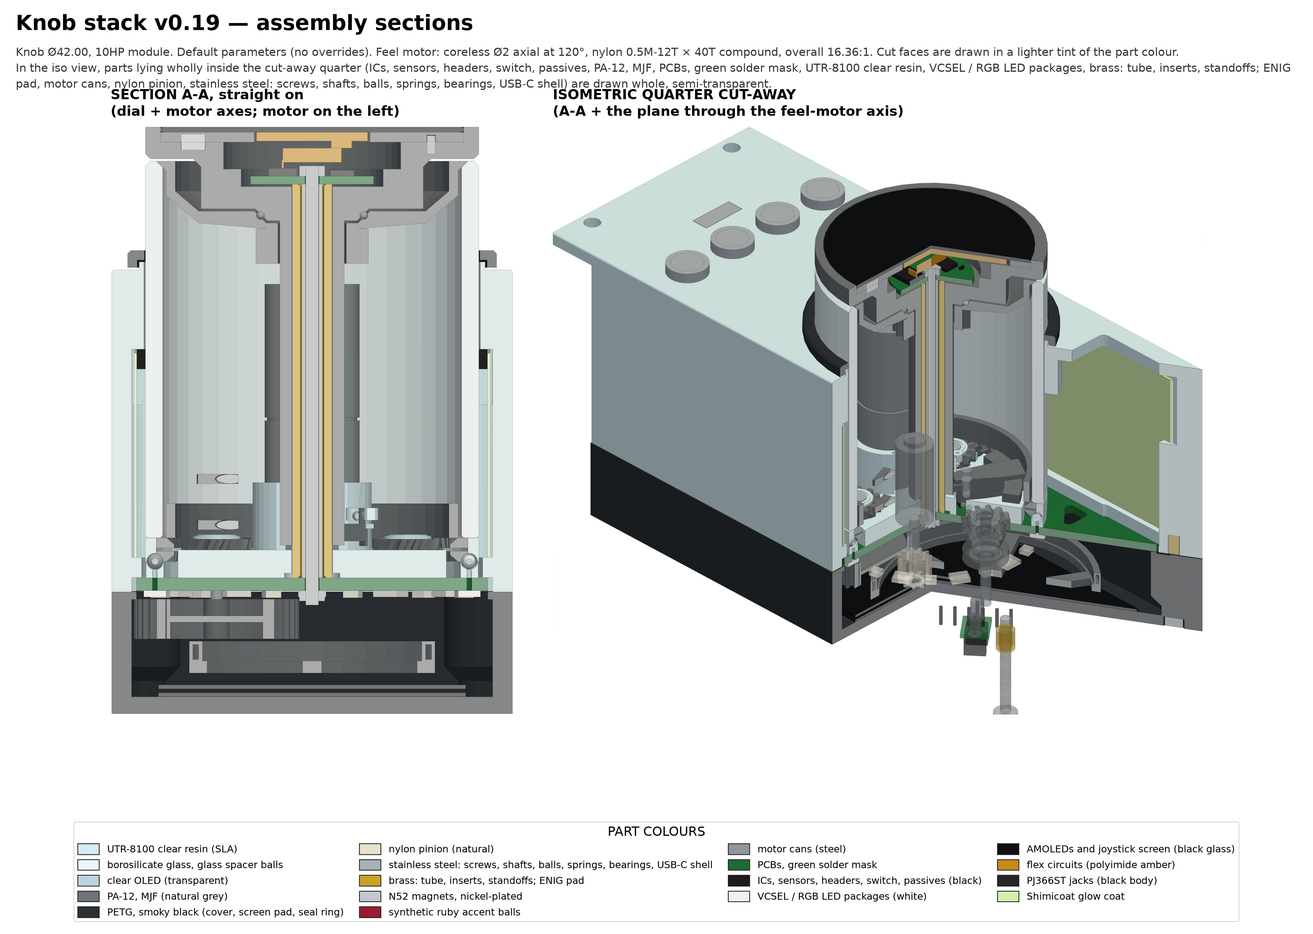
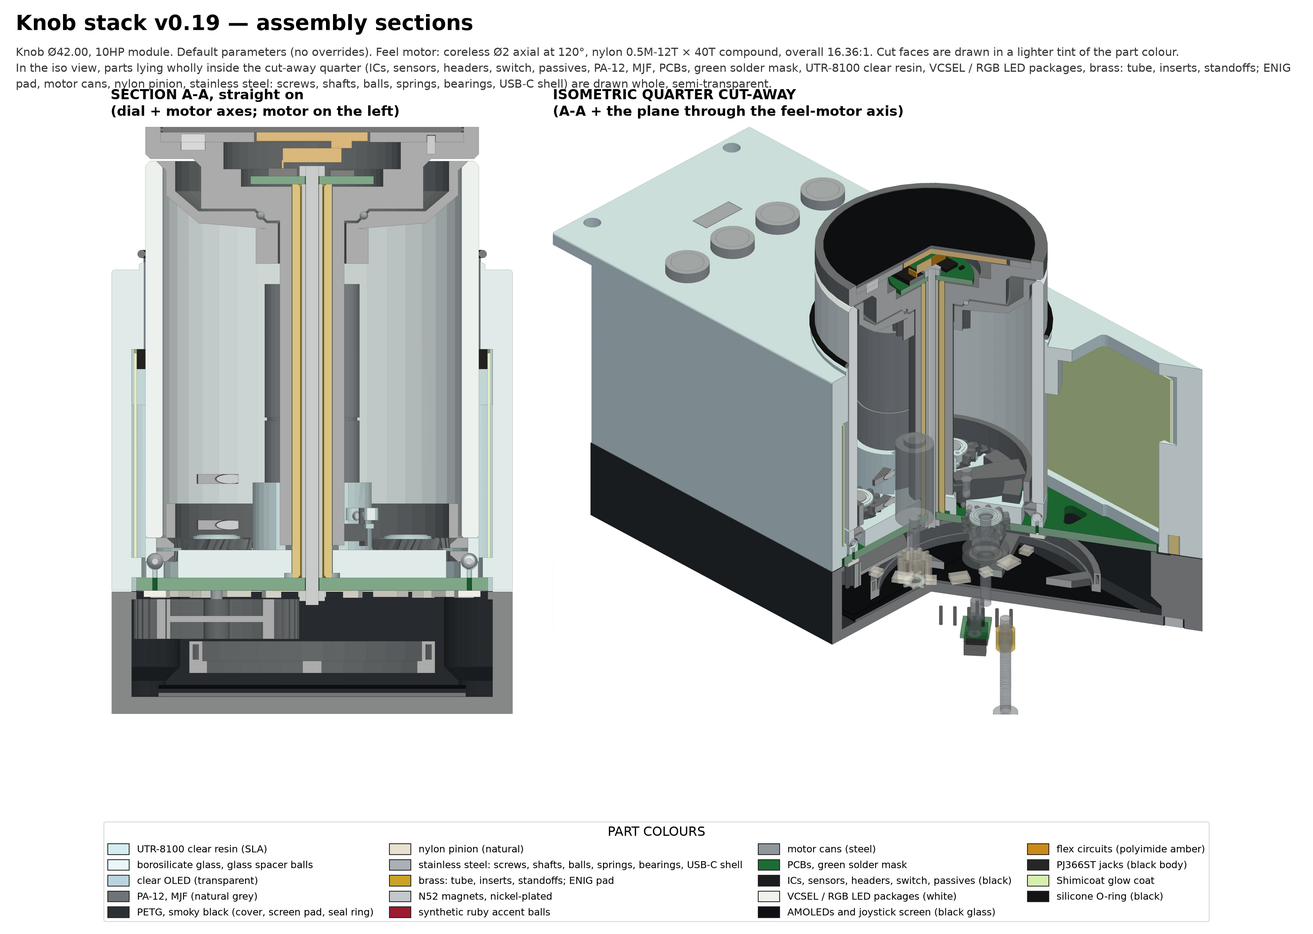
v0.19b: silicone drip O-ring on the glass + sloped faceplate ring (replaces the PETG skirt); back screens spread 4 mm each way (overlap 13.6, rule >= 11 [Ed]); window D back to 38.4 x 24; helper scripts in cad/knob-param/tools; handover doc
175/175 checks pass; one clash left: joystick carrier vs the case top wall (rail strip, see docs/handover-2026-11-02.md).

Claude-Session: https://claude.ai/code/session_01WWsCMB1ZDabhaLUNCmzi3x

diff --git a/cad/knob-param/tools/pcb_windows.py b/cad/knob-param/tools/pcb_windows.py
@@ -1,0 +1,66 @@
+# Run from cad/knob-param:  PYTHONPATH=. python tools/pcb_windows.py out.json   (then paste the polygons into electronics pcb_windows)
+"""PCB see-through windows A, B, C, E (+ D under the clear OLED), panel frame, from the 2 Nov zone sketch rules:
+free = (screen behind) ∩ (board inside a rail) − (mechanism keep-out) − (joystick) − (corner posts) − (other board features)."""
+import math, json, sys
+from shapely.geometry import box, Point, Polygon
+from shapely.ops import unary_union
+from knobparam.common import model
+D = model.derive(model.default_params())
+M = 1.0     # board left round every obstacle
+RAIL = 1.5  # board kept inside the outline
+x0, x1, y0, y1 = -D["pcb_x1"], D["pcb_x1"], D["pcb_y0"], D["pcb_y1"]
+print("pcb", x0, x1, y0, y1, "r_out", D["r_out"], "corners", D["corners"], "notch_r", D["notch_r"])
+print("amo_lower", D["amo_lower"], "amo_upper", D["amo_upper"])
+board = box(x0 + RAIL, y0 + RAIL, x1 - RAIL, y1 - RAIL)
+lower, upper = box(*[D["amo_lower"][i] for i in (0, 2, 1, 3)]), box(*[D["amo_upper"][i] for i in (0, 2, 1, 3)])
+r_keep = max(D["r_out"], D["ot_r"] + D["ot_rg"] + D["ot_track_extra"], D["ot_r"] + 1.75, D["knob_od"] / 2) + 2.5   # knob + cradle + emitter bodies, + the case knob ring
+print("r_keep", r_keep)
+obst = [Point(0, 0).buffer(r_keep, 128)]
+py = 36.52   # joystick axis (cad/joystick-param place_y); carrier and screen carrier are opaque, so nothing to see under them
+obst.append(box(-22.01, py - 14.57, 22.01, py + 14.57).buffer(M))
+for x, y in D["corners"]:
+    obst.append(Point(x, y).buffer(D["notch_r"] + D.get("tube_press", 1.0) + 1.0 + M))
+K = D["pcb_kicad"]
+for p in K.get("back_parts", []):
+    if math.hypot(p["x"], p["y"]) > 23 and p["ref"] == "J10":
+        obst.append(box(p["x"] - p["w"] / 2, p["y"] - p["l"] / 2, p["x"] + p["w"] / 2, p["y"] + p["l"] / 2).buffer(M))
+ex, ey = D["enc_xy"]; a = math.radians(D["mech_rot"]); pex, pey = math.cos(a) * ex - math.sin(a) * ey, math.sin(a) * ex + math.cos(a) * ey
+obst.append(Point(pex, pey).buffer(D["brg"]["D"] / 2 + D["brg2_seat_wall"] + M))
+# v0.19b: encoder daughterboard + header under the PCB (their pins land on the main PCB): keep board round them
+from knobparam.under_pcb.parts import encoder
+from build123d import Rot
+from shapely.geometry import MultiPoint
+_ps = encoder.build(model.view(D, "under_pcb"))
+for _n in ("encoder header", "encoder daughterboard", "encoder standoff"):
+    if _n in _ps:
+        _s = Rot(0, 0, D["mech_rot"]) * _ps[_n]
+        _pts = [(v.X, v.Y) for v in _s.vertices()]
+        obst.append(MultiPoint(_pts).convex_hull.buffer(1.5)); print("obstacle", _n, [round(v, 1) for v in obst[-1].bounds])
+blk = unary_union(obst)
+Z = {}
+Z["A"] = (upper & board).difference(blk) & box(-50, 0, 0, 80)
+Z["B"] = (upper & board).difference(blk) & box(0, 0, 50, 80)
+Z["E"] = (lower & board).difference(blk) & box(-50, -21.8, 0, 0)
+Z["C"] = (lower & board).difference(blk) & box(0, -21.8, 50, 0)
+cut = box(-19.2, -48.6, 19.2, -24.6)   # clear OLED cut-away 38.4 x 24 (sketch, +4 mm into this frame)
+Z["D"] = (cut & board & lower).difference(blk)
+out = {}
+for k in "ABCDE":
+    g = Z[k]
+    gs = [g] if g.geom_type == "Polygon" else [p for p in getattr(g, "geoms", []) if p.geom_type == "Polygon"]
+    gs = [p for p in gs if p.area > 4.0]
+    if not gs:
+        print(k, "empty"); continue
+    p = max(gs, key=lambda q: q.area)
+    # open slightly to drop slivers narrower than 2 mm, then simplify
+    q = p.buffer(-1.0).buffer(1.0, join_style=1)
+    q = q.simplify(0.05)
+    if q.is_empty or q.area < 4.0:
+        print(k, "too thin"); continue
+    if q.geom_type != "Polygon":
+        q = max(q.geoms, key=lambda r: r.area)
+    pts = [(round(x, 2), round(y, 2)) for x, y in q.exterior.coords[:-1]]
+    mnx, mny, mxx, mxy = q.bounds
+    print(f"{k}: area {q.area:.1f} mm²  x {mnx:.1f}..{mxx:.1f}  y {mny:.1f}..{mxy:.1f}  ({len(pts)} pts)")
+    out[k] = pts
+json.dump(out, open(sys.argv[1] if len(sys.argv) > 1 else "/dev/stdout", "w"))

diff --git a/cad/knob-param/tools/drv_spot.py b/cad/knob-param/tools/drv_spot.py
@@ -1,0 +1,60 @@
+# Run from cad/knob-param:  PYTHONPATH=. python tools/drv_spot.py
+"""Free spot for the 716 driver cluster (U20 + C20-C22) on the PCB back, inside the emitter ring, mechanism frame."""
+import math, sys
+from shapely.geometry import box, Point
+from shapely.affinity import rotate
+from shapely.ops import unary_union
+from knobparam.common import model
+D = model.derive(model.default_params())
+F = D["feel"]; K = D["pcb_kicad"]
+def rect(x, y, w, l, a=0):
+    return rotate(box(x - w/2, y - l/2, x + w/2, y + l/2), a, origin=(x, y))
+obs = []
+R = D["ot_r"]
+for i in range(24):
+    obs.append(("em", rotate(box(R - 1.4, -1.75, R + 1.4, 1.75), i * 15.0 + 7.5 * (len(sys.argv) > 1), origin=(0, 0))))
+for r, a in zip(D["hv_r"], D["hv_phi_s"]):
+    obs.append(("hallC", rect(r*math.cos(math.radians(a)), r*math.sin(math.radians(a)), 1.1, 0.6, a)))
+pw, pl = F["pad"]
+for px, py in D["fm_pad_xy"]:
+    obs.append(("fmpad", rect(px, py, pl, pw, D["fm_ang"] + 90)))
+obs.append(("fmshaft", Point(*D["fm_xy"]).buffer(D["fm_shaft_hole"]/2 + 0.3)))
+obs.append(("fghole", Point(*D["fg_xy"]).buffer(D["fg_hole"]/2 + 0.3)))
+obs.append(("fg gear plan", Point(*D["fg_xy"]).buffer(D["fg_tip"] + 0.3)))
+ex, ey = D["enc_xy"]; obs.append(("brg2seat", Point(ex, ey).buffer(D["brg"]["D"]/2 + D["brg2_seat_wall"] + 0.2)))
+obs.append(("rodpad", Point(0, 0).buffer(D["rod_pad_r"] + 0.3)))
+M = D["motor"]
+for s in (-1, 1):
+    obs.append(("tab", rect(D["offset"] + s*M["term_pitch"]/2, 0, M["term_t"] + 0.6, M["term_w"] + 0.6)))
+for h in K.get("holes", []):
+    if math.hypot(h["x"], h["y"]) < 23: obs.append(("khole", Point(h["x"], h["y"]).buffer(h["d"]/2 + 0.3)))
+for p in K.get("back_parts", []):
+    if p["ref"] in ("U20", "C20", "C21", "C22") or (p["ref"].startswith("C1") and len(p["ref"]) == 3): continue
+    if math.hypot(p["x"], p["y"]) < 23: obs.append(("kpart " + p["ref"], rect(p["x"], p["y"], p["w"], p["l"])))
+for x, y in D.get("peg_xy", []) or []:
+    obs.append(("peg", Point(x, y).buffer(D["peg_d"]/2 + 0.3)))
+print("obstacles:", sorted(set(n for n, _ in obs)), "pad", F["pad"], "pegs", D.get("peg_xy"))
+CL = [("U20", 0, 0, 2.95, 2.55), ("C20", 0, 2.2, 1.91, 0.99), ("C21", -2.9, 1.0, 0.99, 1.91), ("C22", -4.7, 1.0, 1.55, 3.05)]
+def cluster(x, y, rot):
+    out = []
+    c, s = math.cos(math.radians(rot)), math.sin(math.radians(rot))
+    for ref, dx, dy, w, l in CL:
+        cx, cy = x + c*dx - s*dy, y + s*dx + c*dy
+        out.append((ref, rotate(box(cx - w/2, cy - l/2, cx + w/2, cy + l/2), rot, origin=(cx, cy))))
+    return out
+pads = D["fm_pad_xy"]; pc = ((pads[0][0]+pads[1][0])/2, (pads[0][1]+pads[1][1])/2)
+best = []
+for rot in range(0, 360, 15):
+    for xi in range(-170, 171, 5):
+        for yi in range(-170, 171, 5):
+            x, y = xi/10, yi/10
+            u = unary_union([g for _, g in cluster(x, y, rot)])
+            gs = [u] if u.geom_type == "Polygon" else list(u.geoms)
+            rmax = max(math.hypot(px, py) for g in gs for px, py in g.exterior.coords)
+            if rmax > 17.6: continue
+            dmin = min(u.distance(g) for _, g in obs)
+            if dmin < 0.6: continue
+            best.append((math.hypot(x - pc[0], y - pc[1]), x, y, rot, rmax, dmin))
+best.sort()
+for b in best[:10]: print("trace %.2f at (%.1f, %.1f) rot %d  rmax %.2f  clear %.2f" % b)
+print("pads centre (%.2f, %.2f), old U20 (-10.25, 12.96) r 16.5" % pc)

diff --git a/cad/knob-param/knobparam/electronics/params.py b/cad/knob-param/knobparam/electronics/params.py
@@ -26,7 +26,7 @@ P = dict(
         "A": [(-17.63, 16.38), (-18.04, 16.11), (-18.53, 16.07), (-18.98, 16.28), (-19.28, 16.67), (-19.36, 17.06), (-19.36, 19.95), (-19.19, 20.51), (-18.83, 20.83), (-18.46, 20.95), (-15.17, 20.95), (-14.61, 20.78), (-14.33, 20.49), (-14.18, 20.12), (-14.19, 19.73), (-14.36, 19.37), (-16.16, 17.83)],
         "B": [(14.57, 19.15), (14.22, 19.63), (14.18, 20.12), (14.39, 20.57), (14.78, 20.87), (15.17, 20.95), (18.36, 20.95), (18.83, 20.83), (19.19, 20.51), (19.36, 20.05), (19.36, 17.06), (19.24, 16.58), (18.99, 16.28), (18.63, 16.1), (18.24, 16.07), (17.87, 16.19), (16.16, 17.83)],
         "C": [(13.98, -21.8), (13.43, -21.63), (13.06, -21.19), (13.0, -20.61), (13.27, -20.1), (15.71, -18.22), (17.78, -16.25), (18.14, -16.08), (18.44, -16.06), (18.73, -16.13), (19.06, -16.34), (19.28, -16.67), (19.36, -17.06), (19.36, -20.9), (19.24, -21.27), (19.07, -21.51), (18.74, -21.72), (18.46, -21.8)],
-        "D": [(18.2, -24.6), (18.58, -24.68), (18.91, -24.89), (19.12, -25.22), (19.2, -25.6), (19.2, -47.1), (19.08, -47.57), (18.76, -47.93), (18.2, -48.1), (-18.2, -48.1), (-18.67, -47.98), (-19.03, -47.66), (-19.2, -47.1), (-19.2, -25.6), (-19.08, -25.13), (-18.76, -24.77), (-18.2, -24.6)],
+        "D": [(18.2, -24.6), (18.58, -24.68), (18.91, -24.89), (19.12, -25.22), (19.2, -25.6), (19.2, -47.6), (19.08, -48.07), (18.76, -48.43), (18.2, -48.6), (-18.2, -48.6), (-18.67, -48.48), (-19.03, -48.16), (-19.2, -47.6), (-19.2, -25.6), (-19.08, -25.13), (-18.76, -24.77), (-18.2, -24.6)],
         "E": [(-19.36, -17.06), (-19.19, -16.5), (-18.82, -16.17), (-18.24, -16.07), (-17.78, -16.25), (-15.71, -18.22), (-13.27, -20.1), (-13.1, -20.33), (-12.99, -20.71), (-13.0, -21.0), (-13.15, -21.36), (-13.51, -21.68), (-13.98, -21.8), (-18.36, -21.8), (-18.92, -21.63), (-19.24, -21.27), (-19.36, -20.9)],
     },
     clear_oled=(42.04, 27.22, 1.25),   # [S] EastRising ER-OLED1.51-1B / Waveshare 1.51" SSD1309 transparent, on the PCB front over window D

diff --git a/cad/knob-param/knobparam/case/params.py b/cad/knob-param/knobparam/case/params.py
@@ -38,6 +38,7 @@ P = dict(
     hp_gap=0.30,            # [L] Doepfer panel is n × pitch − this (10 HP → 50.50)
     panel_h=128.5,         # [L] 3U
     rail_clear=10.0,       # [L] keep the body out of the rail strips
+    lab_ring_slope=0.3,    # [A] v0.19b: faceplate ring top falls this much outward, so drips off the O-ring run away from the hole
     rail_inset=7.5,        # [L] screw station, 7.5 from the panel edge (layout v5)
     rail_edge=3.0,         # [L] screw centre from the panel top / bottom
     rail_hole_d=3.2,       # [L] Ø3.2
@@ -160,8 +161,8 @@ P = dict(
     amo_h=51.56,           # [S]
     amo_t=0.5,             # [S] panel thickness (flex tail and stiffener not modelled yet)
     amo_pad=1.0,           # [Ed] the lower (front) screen sits on a 1 mm pad over the upper one
-    amo_lower_y_up=23.5,   # [Ed] lower screen bottom edge above the panel bottom (frame y -52.1 with the v0.2 knob at 0)
-    amo_upper_top_up=105.0,   # [Ed] upper screen top edge above the panel bottom (frame y 29.4 with the v0.2 knob at 0)
+    amo_lower_y_up=19.5,   # [Ed 2 Nov] lower screen bottom edge above the panel bottom; 4 mm lower now the corner screws come in from the back (v0.19: 23.5)
+    amo_upper_top_up=109.0,   # [Ed 2 Nov] upper screen top edge above the panel bottom; 4 mm higher, same reason (v0.19: 105.0); overlap ~13.6
     screen_air=1.0,        # [Ed] minimum air from any part behind the PCB to a screen; the cover depth is worked back from it
     ledge_knob_clear=0.3,  # [A] side ledge cut back this far past the knob hole radius round the knob base
     joy_board_z=27.1,      # [A] joystick daughterboard underside (v0.18 design notes); the top posts must stop under it

diff --git a/cad/knob-param/knobparam/main_knob/parts/knob.py b/cad/knob-param/knobparam/main_knob/parts/knob.py
@@ -65,6 +65,10 @@ def seal_ring(D):
     outside it to the case's shoulder line (lab_shoulder_*). Turns with the knob; running gaps are the case's lab_gap."""
     if not D.get("seal_ring") or "lab_ring_r" not in D:
         return None
+    if D.get("seal_type") == "oring":   # v0.19b: drip ring, a torus sitting on the glass OD just above the faceplate ring
+        cs = D["seal_oring"][1]
+        zc = D["lab_ring_z1"] + D["seal_oring_z_air"] + cs / 2
+        return Pos(0, 0, zc) * Torus(D["knob_od"] / 2 + cs / 2, cs / 2)
     rb = D["knob_od"] / 2 + D["seal_glue"]
     z0 = D["lab_ring_z1"] + D["lab_gap"]; z1 = z0 + D["seal_top_t"]
     rs0 = D["lab_shoulder_r"]; rs1 = rs0 + D["seal_wall"]; zs = D["lab_shoulder_z0"]
@@ -116,6 +120,8 @@ def build(D):
            "bottom internal ring (lower half)": lower, "bottom internal ring (upper half)": upper,
            "knob lower-cap land": land,
            f"knob balls {n} x Ø{D['kb_ball_d']:g} (45° cones)": balls}
-    if seal is not None: out["knob seal ring (PETG, bonded on the glass)"] = seal
+    if seal is not None:
+        out[f"knob drip O-ring {D['seal_oring'][0]:g}x{D['seal_oring'][1]:g} silicone (on the glass)" if D.get("seal_type") == "oring"
+            else "knob seal ring (PETG, bonded on the glass)"] = seal
     if D["rel_sensor"]: out[f"knob ring magnet Ø{ro_:g}/Ø{ri_:g}×{th_:g} diametric"] = ring_mag
     return out

diff --git a/cad/knob-param/knobparam/main_knob/params.py b/cad/knob-param/knobparam/main_knob/params.py
@@ -11,7 +11,11 @@ P = dict(
                          # on the inner chamfer. "shoulder" = the earlier idea: glass a shoulder short, 2 mm cap shoulder on its top face
     cap_shoulder_t=2.0,   # [Ed] "shoulder" only: shoulder on the glass top face, same OD as the glass
     cap_shoulder_glue=0.05,   # [A] bond line between the shoulder and the glass top face
-    seal_ring=True,   # [Ed 2 Nov] opaque PETG ring bonded on the glass OD; its skirt drops over the faceplate ring (case lab_ring_*)
+    seal_ring=True,   # [Ed 2 Nov] spill seal on the glass above the faceplate ring (case lab_ring_*)
+    seal_type="oring",   # [Ed 2 Nov] "oring": silicone O-ring stretched on the glass as a drip ring, no contact with the case (no drag on
+                         # the feel). "petg": bonded PETG ring with a skirt over the faceplate ring (clashed the joystick bezel and screen)
+    seal_oring=(40.0, 1.0),   # [S] metric silicone O-ring ID x CS; ~5% stretch onto the Ø42 glass, held by the stretch plus a dab of RTV
+    seal_oring_z_air=0.5,   # [A] O-ring underside above the faceplate ring top (also ~0.3 over the joystick bezel lip at rest)
     seal_glue=0.15,   # [A] radial bond on the measured glass OD (print the bore to the measured tube, like the caps)
     seal_wall=1.2,   # [A] skirt wall, 3 lines
     seal_top_t=1.2,   # [A] flange over the faceplate ring

diff --git a/cad/knob-param/tools/cover_cuts.py b/cad/knob-param/tools/cover_cuts.py
@@ -1,0 +1,20 @@
+# Run from cad/knob-param:  PYTHONPATH=. python tools/cover_cuts.py out.png
+import os, sys, math
+import matplotlib; matplotlib.use("Agg"); import matplotlib.pyplot as plt
+from knobparam.common import model
+from knobparam.assembly.build import build_all, view
+from knobparam.assembly.plan_sheet import cut, draw
+D = model.derive(model.default_params())
+parts, stats, keys, owner = build_all(D)
+parts, keys = view(parts, keys, D, "panel")
+sel = {n: s for n, s in parts.items() if n.startswith(("back cover", "lower screen pad", "corner", "back AMOLED", "case", "PCB", "encoder", "feel"))}
+print([n for n in sel])
+zs = [-16.6, -15.6, -14.75, -13.75, -11.0, -8.0, -5.0, -3.0]
+fig, axs = plt.subplots(1, len(zs), figsize=(3.4 * len(zs), 8.5))
+for ax, z in zip(axs, zs):
+    lay = cut(sel, "z", z)
+    draw(ax, lay, f"z {z}", (-27, 27), (D["panel_y0"] - 2, D["panel_y1"] + 2))
+    for n, *_ in lay: pass
+fig.savefig(sys.argv[1], dpi=90, bbox_inches="tight")
+b = parts["back cover (PETG)"].bounding_box() if "back cover (PETG)" in parts else None
+print("cover bb", b)

diff --git a/cad/knob-param/knobparam/case/checks.py b/cad/knob-param/knobparam/case/checks.py
@@ -30,7 +30,7 @@ def checks(D, parts):
     row("resin wall round the insert", D["insert_wall"], 1.2, f"M{D['screw_d']:g} insert Ø{D['insert_od']:.1f} in a Ø{2 * D['screw_boss_r']:.1f} boss")
     if D["back_screens"] == "amoled2":
         x0, x1, y0, y1 = D["amo_upper"]; lx0, lx1, ly0, ly1 = D["amo_lower"]
-        row("back AMOLEDs overlap behind the knob", D["amo_overlap"], 15.0,
+        row("back AMOLEDs overlap behind the knob", D["amo_overlap"], 11.0,   # [Ed 2 Nov] ~11 mm overlap is fine (was 15)
             f"lower y {ly0:.2f}..{ly1:.2f}, upper y {y0:.2f}..{y1:.2f}; seam inside the knob shadow")
         row("back AMOLEDs inside the cover pocket", min(D["void_x1"] - x1, x0 - D["void_x0"], D["void_y1"] - y1, ly0 - D["void_y0"]), 0.3,
             f"{D['amo_w']:.2f} wide in a {D['void_x1'] - D['void_x0']:.2f} pocket")

diff --git a/cad/knob-param/knobparam/case/parts/shell.py b/cad/knob-param/knobparam/case/parts/shell.py
@@ -216,6 +216,10 @@ def build(D):
     # seal ring: a short thin collar standing up around the knob opening
     ring = _cyl_z(D["lab_ring_r"], D["z_fp1"] - fu, D["lab_ring_z1"], D["ox"], D["oy"])
     ring = _sub(ring, _cyl_z(D["knob_hole_r"], D["z_fp1"] - fu - sl, D["lab_ring_z1"] + sl, D["ox"], D["oy"]))
+    if D.get("lab_ring_slope", 0) > 0:   # v0.19b: top falls outward (drips run away from the knob hole)
+        z1, s, r0, r1 = D["lab_ring_z1"], D["lab_ring_slope"], D["knob_hole_r"], D["lab_ring_r"] + 0.01
+        cut = revolve(Face(Wire.make_polygon([Vector(r0, 0, z1 + sl), Vector(r0, 0, z1), Vector(r1, 0, z1 - s), Vector(r1, 0, z1 + sl)], close=True)), Axis.Z, 360)
+        ring = _sub(ring, Pos(D["ox"], D["oy"], 0) * cut)
     case = _add(case, ring)
     # printed threads
     for x, y in D["corners"]:

diff --git a/cad/knob-param/knobparam/assembly/colours.py b/cad/knob-param/knobparam/assembly/colours.py
@@ -25,6 +25,7 @@ MATERIALS = {
     "flex":    ("flex circuits (polyimide amber)", "#c98a1b", False),
     "jack":    ("PJ366ST jacks (black body)", "#262626", False),
     "glow":    ("Shimicoat glow coat", "#d7efae", False),
+    "silicone": ("silicone O-ring (black)", "#141414", False),
     "other":   ("unassigned (check the material rules)", "#ff00ff", False),
 }
 
@@ -33,6 +34,7 @@ def key(name):
     n = name[len("joystick: "):] if name.startswith("joystick: ") else name
     low = n.lower()
     # name overrides first: places where the BOM material string is generic or the part is a sub-feature
+    if "o-ring" in low: return "silicone"
     if "seal ring" in low: return "petg"
     if "clear oled" in low: return "oled"
     if "ruby" in low: return "ruby"

diff --git a/cad/knob-param/knobparam/assembly/export_parts.py b/cad/knob-param/knobparam/assembly/export_parts.py
@@ -12,6 +12,7 @@ RULES = [
     (r"locating pin|dowel", "buy", "steel dowel", "buy"),
     (r"saddle strap|saddle seat|screen carrier|holder", "print", "PA-12", "MJF"),
     (r"FPC|jumper|B2B", "buy", "flex / connector", "buy"),
+    (r"O-ring", "buy", "silicone O-ring (metric)", "buy"),
     (r"seal ring", "print", "PETG, opaque", "FDM"),   # v0.19b: before the glass rule (the name says 'bonded on the glass')
     (r"knob upper-cap", "print", "PA-12", "MJF"),     # v0.19b: carries the 1220 hub gear; was caught by the clear 'cap' rule
     (r"base cradle", "print", "UTR-8100 clear resin (clear race fused in)", "SLA"),   # the race land is the light path

diff --git a/docs/handover-2026-11-02.md b/docs/handover-2026-11-02.md
@@ -1,0 +1,45 @@
+# Handover, 2 Nov 2026 (end of the v0.19b session)
+
+Start here in a fresh thread. Everything below is in the repo on `param-dev` (fast-forwarded from `asm/v019-integration`).
+Decisions with dates and tags are in `docs/case-decisions-2026-11-02.md` (read the "2 Nov mid-morning (v0.19b)" section first).
+Tags: [Ed] Danny's decision, [A] assumption, [C] open check.
+
+## Rules (unchanged)
+- Work on `param-dev` (or a sub branch merged into it). Nothing to `main` without Danny's sign-off. Never commit keys or passwords (public repo).
+- Danny decides one thing at a time and wants to talk decisions through before PCB work.
+- Commit trailer: `Co-Authored-By: Claude Opus 5.5 <noreply@anthropic.com>` plus the session line.
+
+## How to build
+- Model: `cad/knob-param/knobparam` (build123d, subs: electronics, control_dial, main_knob, base_drive, under_pcb, optics, case).
+  Joystick: `cad/joystick-param` (read as data by the knob build: `knobparam/assembly/joystick.py`).
+- Python venv with build123d, pyvista, shapely, matplotlib. On an 8 GB box use `KNOB_POOL=2` (the full build OOMs otherwise). A full build takes 4–5 min; run it in the background.
+- From `cad/knob-param`:
+  - `KNOB_POOL=2 python build.py` → checks + clashes (knob and joystick-vs-knob) → `cad/assemblies/knob-stack-v0.19/check.json`
+  - `PYTHONPATH=. python -m knobparam.assembly.plan_sheet` → section sheet (13 plan cuts + 3 vertical cuts, now with the joystick)
+  - `KNOB_POOL=2 python build.py --clean --no-check` → assembly render
+  - `PYTHONPATH=. python -m knobparam.assembly.export_parts` → STEP per part + `parts.csv` (materials from `RULES`)
+  - Joystick alone: `cd cad/joystick-param && python build.py` (also writes the daughterboard `geom.json`, including the holes it needs in the main PCB)
+- Frames: mechanism parts are built with the 1220 at +X and turned by `mech_rot = -90` into the panel frame (`assembly/build.py view()`). Checks and clashes run in the mechanism frame; renders, exports and the joystick clash run in the panel frame.
+- Colours: `assembly/colours.py` gives every part its real colour from its material (one table for renders, sheet and exported models). Magenta = a part the material rules do not place.
+- Helper scripts: `cad/knob-param/tools/` (`pcb_windows.py` regenerates the PCB window polygons, `drv_spot.py` finds a free spot for the 716 driver, `cover_cuts.py` plots plan cuts through the back cover).
+
+## State at handover
+- Last build: all checks pass except as noted in check.json; one clash left: **joystick carrier vs the case top wall** (the rail-zone issue below).
+- v0.19b changes (details in the decisions doc): glass up under the dial with ground chamfers, thin dished upper cap; no dial thrust bearing; 716 driver inboard, closed ball ring, 24 emitters every 15°; PCB windows A B C E + D with the clear OLED; M2.5 ISO 14580 Torx T8 corner screws from the back, slim corner columns; back screens spread 4 mm each way (overlap 13.6 mm, rule ≥ 11 [Ed]); bearing 2 inside the H2 bore; silicone drip O-ring on the glass (no contact) and an outward-sloped faceplate ring; joystick in the knob clash run and section sheet; encoder sensor at panel 40°.
+
+## Open items, in rough priority
+1. **Joystick vs the Eurorack rail (top strip).** The case keeps the body 10 mm off the panel top (`rail_clear`), i.e. nothing behind the panel above y 46.9. The joystick carrier reaches y 50.7 (local +14.2) at z 33.9–36.1, and the top pair of centring-spring stations (insert, grub, spring at local (±19.14, +11.7)) reach y 49.7. Both sit 0.2–3.2 mm behind the panel, where the rail is.
+   - (a) Move knob + joystick + OLED down 4.3 mm: blocked. The clear OLED has ~1.1 mm before the bottom corner posts and ~1.7 mm before the knob's race footprint; about 2.8 mm in total.
+   - (b) Recommended: keep the panel layout and shrink the joystick's under-panel parts. Carrier trimmed to about ±9.9 in y behind the panel; centring-spring stations moved from y ±11.7 to about ±7.5 (up/down centring stiffness drops to ~(7.5/11.7)² ≈ 0.41, so stiffer springs). The bezel and screen in front of the panel stay as they are.
+   - (c) A mix: move the group down ~2 mm and trim ~2.3 mm (stiffness ~0.65).
+   - Not yet decided by Danny. It also overlaps item 2.
+2. **Joystick screen flex.** [Ed] connector on the joystick daughterboard; the socket under the seat plate / carrier skirt still clashes (joystick model: 2 fails, 5 clashes). The board-to-board link needs ~18 signals (two 2×5 long-post headers), not modelled. Proposal still open: widen the daughterboard on the flex side past the seat plate and notch the carrier skirt.
+3. **Control-dial arm.** [Ed 2 Nov, latest]: move the single spring-ball detent out to near the END of the arm (where the arc is), and put the arm's ball supports under the arc. Reason: more room for the detent's three dimples (middle and the two ±10° ends) at the larger radius. Still to do: three ball tracks with alternating big/small separator balls (the arm has one track since the single-detent change).
+4. **KiCad regeneration** in the panel frame (KiCad is not installed in the cloud box): Edge.Cuts windows A–E (`cad_constraints.json` `pcb_windows`), 716 driver cluster (`drv`), joystick holes (`js_pcb_holes`), clear OLED, emitter NPTHs every 15°; move R20–R22 and R30–R32 off window D; then set electronics `kicad_frame="panel"`. Pin assignment in CubeMX (budget in `docs/pcb-h7b0-plan-2026-11-02.md`).
+5. **Glass tube quote.** No supplier is recorded. Ask a borosilicate 3.3 maker for OD 42, wall 2.15 (2.0–2.3), length 47.45, one end ground 0.8 × 45° inside and 0.6 × 45° outside (polished or frosted), other end fire-polished; get the extra cost of the chamfers. Caps are printed to the measured tube.
+6. **Bigger PCB windows** ([Ed] 2 Nov: "these windows can be much bigger", later). They are cautious now: 1.0 mm round every obstacle and a 24.1 mm knob keep-out (2.5 mm allowance on top of the emitter bodies). Real limits: emitter bodies on the board back (r 21.2), the screen edges (±19.36), corner posts, the 1.5 mm board rail, the encoder header. Rerun `tools/pcb_windows.py` with a keep-out near 22 and smaller margins, paste into electronics `pcb_windows`, and check KiCad routing room (H7B0 + screens still need board).
+7. **Risley placement study** (laser Φ8×31 on the top board, two motors and printed prisms overhanging them, beam back into the dial and the enclosure).
+8. Smaller: joystick tilt vs the drip O-ring (0.3 mm at rest over the bezel lip); clean render's A-A caption is stale; UV coupon (405 nm through UTR-8100); Danny's motor bench results (motors due 5–11 Nov); 716 motor still to source.
+
+## Not a single back screen
+Checked 2 Nov: no AMOLED fits as one screen. Bar AMOLEDs near the right height (3.23", 262×928) are ~25 mm wide and MIPI-only (the H7B0 has no DSI); the next sizes up (3.6"/3.95") are 45–49 mm wide. Keep the two 2.4" RM690B0 panels.
